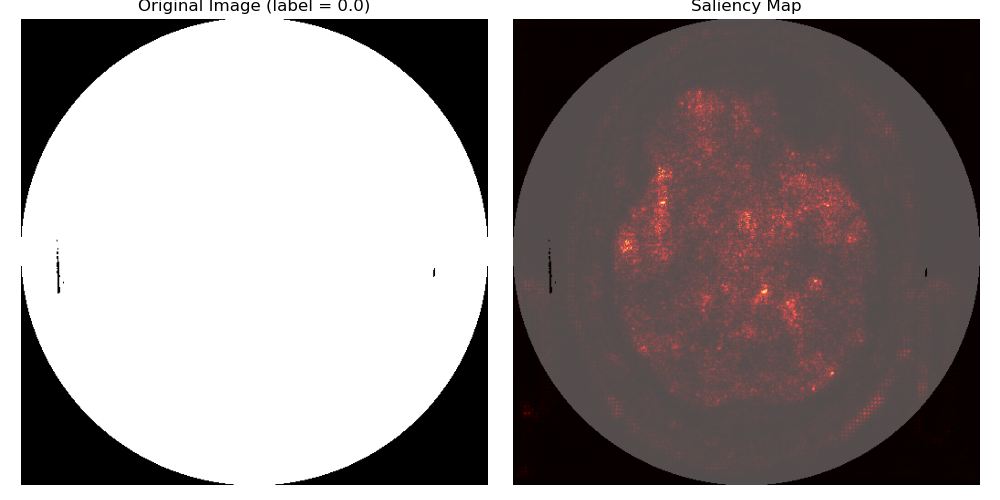
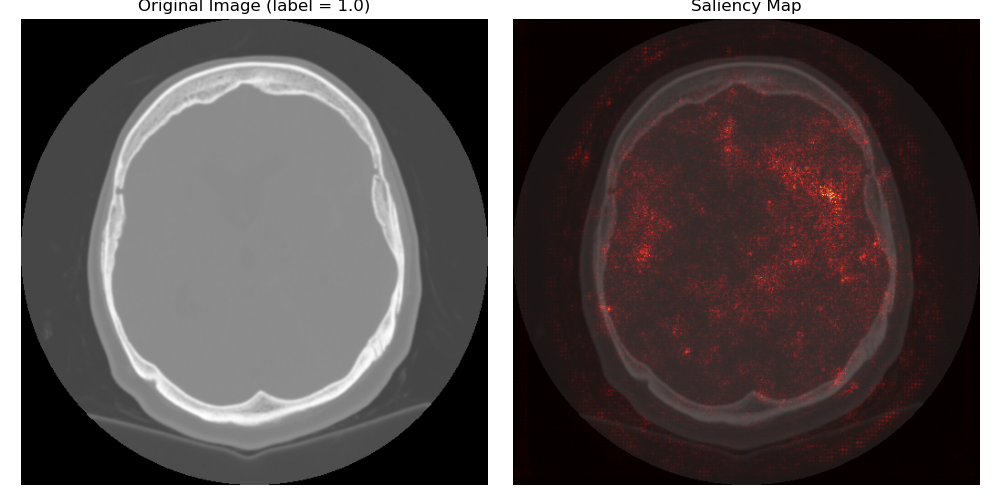
tests new visualize saliency

diff --git a/train.py b/train.py
@@ -247,8 +247,9 @@ class Model_extented(nn.Module):
                 # Visualization
                 plt.figure(figsize=(10, 5))
                 plt.subplot(1, 2, 1)
+                #TODO
                 img_raw = batch['image_raw'][index]
-                img = torch.clamp(img_raw, 0, 1)
+                img = img_raw/255
                 img_np = img.detach().cpu().numpy()
                 # img = torch.clamp(input_img, 0, 1)
                 # img_np = img.detach().cpu().squeeze().permute(1, 2, 0).numpy()
